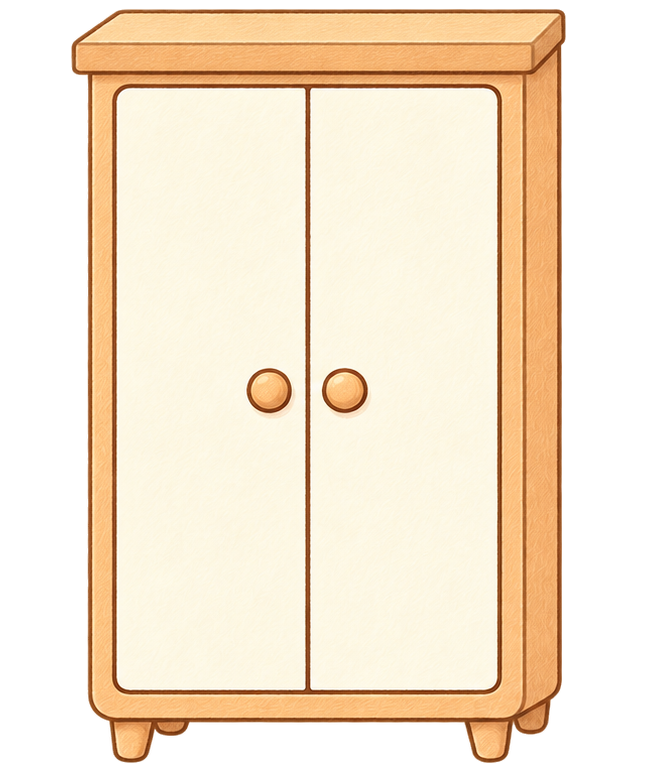
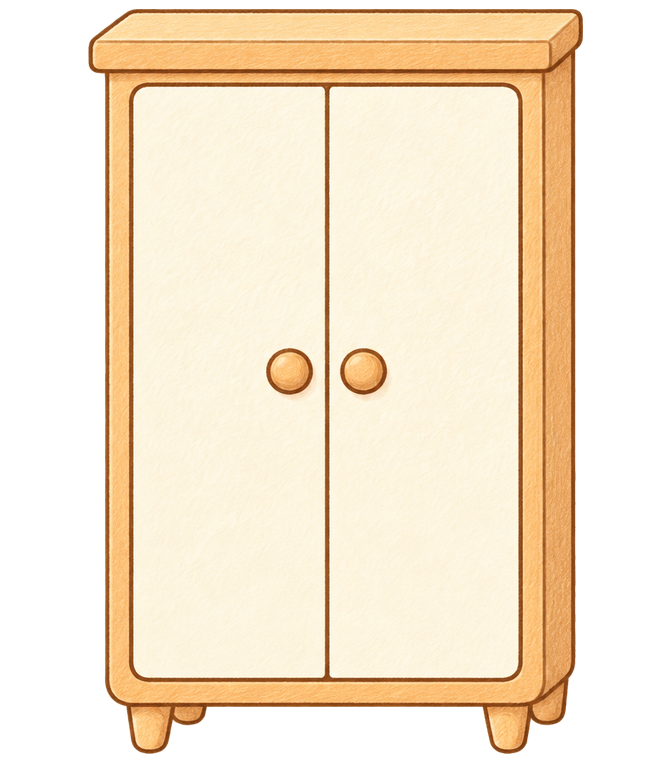
Level 2: vẽ lại cặp tủ đóng/mở cùng một khung, đặt lại hộp giày trên nóc
- Mô tả chi tiết tủ đóng/mở trong design-art-level2 (nóc dày, hông phải hẹp, hai cánh mở đối xứng)
- Tủ đóng do Codex vẽ; tủ mở ghép bằng script giữ nguyên khung tủ đóng, lấy cánh và ngăn
  quần áo gấp từ ảnh Codex
- Hộp giày đặt đúng trên mặt nóc ở cả hai trạng thái

Changed region(s): [[0.092, 0.0, 0.8896, 0.9974]]

diff --git a/game/src/level2.js b/game/src/level2.js
@@ -295,7 +295,7 @@ export class Level2 extends BaseLevel {
     this.wardrobe = this.img('l2_wardrobe_closed', ...P('l2_wardrobe_closed'), D.box);
     // G2-7: hộp giày nắp hé, hai tai mèo thò lên (hoá ra mũ len hồng tai mèo).
     const wb0 = this.wardrobe.getBounds();
-    this.shoebox = this.img('l2_shoebox_ears', ...(this.pos('l2_shoebox_ears') || [this.wardrobe.x + SIZE_K.l2_wardrobe_closed, this.wardrobe.y - 487 * SIZE_K.l2_wardrobe_closed]) /* Vòng 5d: mặt nóc cách neo đáy 487px ở cỡ design-art, nhân hệ số cỡ tủ trong game */, D.box + 1);
+    this.shoebox = this.img('l2_shoebox_ears', ...(this.pos('l2_shoebox_ears') || [this.wardrobe.x - 1, this.wardrobe.y - 553 * this.wardrobe.scaleY / (1.14 / 1.5)]) /* Vòng 5e: mặt nóc 543–562px trên neo đáy tủ ở cỡ trong game (tủ ×1,14) */, D.box + 1);
     this.attachTo(this.shoebox, this.wardrobe); // O2-18: hộp nằm trên nóc tủ nhún theo tủ
     this.pinkBeanie = this.img('l2_beanie_pink_cat', this.shoebox.x, this.shoebox.y - 40, D.box).setVisible(false);
     this.bed = this.img('l2_bed_blanket_flat', ...P('l2_bed_blanket_flat'), D.cushion);

diff --git a/art/design-art-level2.md b/art/design-art-level2.md
@@ -43,8 +43,8 @@ Hiển thị = cỡ trong game trên khung 1024x1536. TS = trong suốt.
 | `l2_bed_blanket_flipped` | level2 | theo nhóm | TS | đáy | `l2_bed_sheet` (bed) |
 | `l2_duster_peek` | level2 | cao 120 | TS | đỉnh (gốc lông) | `l2_wardrobe_sheet` (G2-9) |
 | `l2_duster` | level2 | rộng 260 | TS | đáy | `l2_wardrobe_sheet` (G2-9) |
-| `l2_wardrobe_closed` | level2 | rộng 330 | TS | đáy | `l2_wardrobe_sheet` (wardrobe) |
-| `l2_wardrobe_open` | level2 | theo nhóm | TS | đáy | `l2_wardrobe_sheet` (wardrobe) |
+| `l2_wardrobe_closed` | level2 | rộng 330 | TS | đáy | `l2_wardrobe_closed_sheet` (wardrobe) |
+| `l2_wardrobe_open` | level2 | theo nhóm | TS | đáy | `l2_wardrobe_open_sheet` (wardrobe), sửa từ ảnh tủ đóng |
 | `l2_shoebox_ears` | level2 | rộng 170 | TS | đáy | `l2_props_sheet` (shoebox, G2-7) |
 | `l2_shoebox_open` | level2 | theo nhóm | TS | đáy | `l2_props_sheet` (shoebox, G2-7) |
 | `l2_beanie_pink_cat` | level2 | rộng 120 | TS | đáy | `l2_props_sheet` (G2-7) |
@@ -229,12 +229,10 @@ Bố cục: hàng trên 6 chiếc tất bay đứng cạnh nhau, cùng tỉ lệ
 - `l2_bed_blanket_flat` 🎭: giường đơn gỗ caramel nằm ngang, **đầu giường tròn bên trái**, chân ngắn; chăn xanh da trời phủ kín, **giữa chăn MỘT gò tròn duy nhất, nổi rõ, cỡ Sữa cuộn tròn** (gối trắng nằm dưới); **gầm giường trong suốt** (không bóng, không mảng tối; thấy sàn nền; góc thảm lông là sprite riêng). 4 chân thẳng đứng cùng phối cảnh khung (O2-12, O2-13).
 - `l2_bed_blanket_flipped`: cùng giường, chăn lật gập về phía chân giường, lộ **một chiếc gối trắng tròn** (chính là cục phồng). Không mèo.
 
-### 5.6 Tờ `l2_wardrobe_sheet` — Cặp tủ quần áo và chổi lông (1536x1024, O2-22, G2-9)
+### 5.6 Tờ `l2_wardrobe_sheet` — Chổi lông (1536x1024, G2-9) và cặp tủ (tờ riêng)
 
 | Tờ | Ô | Key | Thư mục | Nhóm | Neo | Hiển thị | Nét |
 |---|---|---|---|---|---|---|---|
-| l2_wardrobe_sheet | 0,0,550,800 | l2_wardrobe_closed | level2 | wardrobe | đáy | rộng 330 | 4 |
-| l2_wardrobe_sheet | 550,0,670,800 | l2_wardrobe_open | level2 | wardrobe | đáy |  | 4 |
 | l2_wardrobe_sheet | 1220,0,316,800 | l2_duster_peek | level2 |  | đỉnh | cao 120 | 8 |
 | l2_wardrobe_sheet | 0,800,1536,224 | l2_duster | level2 |  | đáy | rộng 260 | 7 |
 
@@ -244,10 +242,25 @@ Bố cục: hàng trên 6 chiếc tất bay đứng cạnh nhau, cùng tỉ lệ
 
 Bố cục: hai tủ đứng cạnh nhau ở 3/4 trái (cùng cỡ, cùng đường đáy y≈760), túm lông thò ra ở cột phải, chổi lông nằm ngang ở dải dưới cùng. `l2_lamp_sheet` là ảnh tờ tủ cũ (chỉ lấy đèn), không vẽ lại.
 
-**Cặp tủ (O2-22) — hai ảnh là CÙNG MỘT tủ:** cùng khung, cùng cỡ, cùng góc hơi nghiêng ngang (mặt trước chữ nhật đứng + **một dải hông hẹp bên phải** + nóc là dải mỏng), cùng nóc, cùng 4 chân ngắn, cùng đường đáy.
-- `l2_wardrobe_closed`: khung gỗ mật ong nhạt, 2 cánh kem đóng sát nhau ở giữa, 2 núm gỗ tròn cạnh khe giữa; nóc dải mỏng gỗ; dải hông phải gỗ mật ong hơi sẫm hơn; 4 chân ngắn thẳng.
-- `l2_wardrobe_open`: **y hệt thân tủ đóng** (khung, nóc, dải hông, chân trùng khít vị trí), chỉ khác: **hai cánh mở ra hai bên** (mỗi cánh thấy mặt trong kem, núm ở mép ngoài, cánh mở nhìn hẹp lại vì xoay ra), lộ lòng tủ gỗ nhạt với **4 ngăn kệ ngang, quần áo gấp vuông vức** từng chồng màu pastel nhạt (vàng, hồng, bạc hà, xanh trời, kem). Không mèo.
-- Hộp giày trên nóc (`l2_props_sheet`) đã khớp góc nóc này: giữ nguyên góc nhìn tủ.
+**Cặp tủ (O2-22, vẽ lại lần 3) — hai tờ riêng, tủ mở sửa từ chính ảnh tủ đóng:**
+
+| Tờ | Ô | Key | Thư mục | Nhóm | Neo | Hiển thị | Nét |
+|---|---|---|---|---|---|---|---|
+| l2_wardrobe_closed_sheet | 0,0,1024,1536 | l2_wardrobe_closed | level2 | wardrobe | đáy | rộng 330 | 3 |
+| l2_wardrobe_open_sheet | 0,0,1024,1536 | l2_wardrobe_open | level2 | wardrobe | đáy |  | 3 |
+
+(`rộng 330` đo trên tủ đóng; tủ mở để trống cột Hiển thị nên dùng cùng tỉ lệ, khung trùng nhau.)
+
+Mô tả chung (giống hệt ở hai trạng thái):
+- **Góc nhìn chung** (style.md 2b): chính diện, nhìn xuống ~15°, cạnh ngang nằm ngang, cạnh đứng thẳng đứng. Tủ đặt sát tường sau, hơi lệch phải khung nên thấy **một dải hông bên phải hẹp** (rộng ~1/10 bề ngang mặt trước), cạnh trên/dưới của dải hông hơi chéo lên theo phối cảnh nhẹ, cạnh đứng thẳng.
+- **Tỉ lệ:** mặt trước rộng 1, cao ~1,75 (tính cả nóc và chân), sâu ~0,35 (chỉ thấy qua dải hông và mặt nóc).
+- **Nóc:** tấm gỗ mật ong dày (~1/18 chiều cao), nhô ra ~4% mỗi bên và phía trước; thấy **mặt trên nóc** là một dải phẳng sáng (cao ~1/8 bề ngang, đủ đặt hộp giày) và cạnh trước dày.
+- **Thân:** khung gỗ mật ong nhạt bo góc nhẹ, viền nâu ấm mảnh; **chân:** 4 chân gỗ ngắn tròn thẳng đứng (2 chân sau lấp một phần sau chân trước), cùng đường đáy.
+- Màu, nét như `owner_l1_style_ref.png`: nhạt, mịn, viền nâu mảnh.
+- Trong canvas 1024x1536: tủ đóng (kể cả hông) rộng ~430px, căn giữa ngang, đáy chân ở y≈1350, để hai bên còn chỗ cho cánh mở.
+
+- `l2_wardrobe_closed`: hai cánh kem đóng sát nhau ở giữa mặt trước, khe giữa thẳng đứng, 2 núm gỗ tròn hai bên khe, mỗi cánh có viền khung mảnh.
+- `l2_wardrobe_open`: **y hệt ảnh tủ đóng từng pixel** ở khung, nóc, dải hông phải, chân, đường đáy. Chỉ khác: **cả hai cánh mở ra hai bên đối xứng (~100°)**: mỗi cánh thành một **dải hẹp hình thang đứng** gắn đúng ở mép bản lề (cánh trái ở mép trái mặt trước, cánh phải ở mép phải), thấy **mặt trong cánh** màu kem nhạt hơn và núm ở mép ngoài; cạnh trên/dưới cánh hơi chéo theo phối cảnh, cạnh đứng thẳng. Lòng tủ: vách gỗ nhạt, **4 ngăn kệ ngang** nhìn chính diện, quần áo gấp vuông vức ngay ngắn từng chồng (vàng, hồng, bạc hà, xanh trời, kem), không bóng.
 
 **Chổi lông (G2-9):** lông chổi **giống đuôi Sữa**: trắng kem ấm, lông bông xù mềm, nét chì như đuôi trong `sua_ref`.
 - `l2_duster_peek` 🎭: chỉ **túm lông trắng dài, cong như đuôi mèo** thò ra, đầu túm tròn bông; **gốc cắt phẳng ở mép trên** (neo đỉnh, khuất dưới mép giường); không thấy cán.

diff --git a/art/review/level2-thread.md b/art/review/level2-thread.md
@@ -339,3 +339,25 @@ Mỗi lượt Codex đính kèm ảnh mẫu level 1 (`art/ref/owner_l1_style_ref
 - Đã ghép thử hộp lên nóc mới: góc nghiêng và dải hông phải của hộp khớp nóc, không cần vẽ lại hộp.
 
 ---
+
+## Vòng 5e – Art 2D (cặp tủ đồng bộ)
+
+- **design-art mục 5.6:** mô tả chi tiết cặp tủ:
+  - tỉ lệ rộng 1 : cao 1,75 : sâu 0,35; nóc gỗ dày nhô ra, mặt trên là dải phẳng; dải hông phải hẹp ~1/10 bề ngang, giống nhau ở hai trạng thái; 4 chân; góc nhìn chung;
+  - tủ mở có 2 cánh mở đối xứng thành dải hẹp hình thang ở hai mép bản lề, 4 ngăn quần áo gấp nhìn chính diện.
+  - Hai tờ riêng `l2_wardrobe_closed_sheet`, `l2_wardrobe_open_sheet` (1024x1536). Tủ mở để trống cột Hiển thị để dùng chung tỉ lệ với tủ đóng.
+- **Lượt 1 (tủ đóng):** đạt. Log có "Nhắc lại quy tắc" và "Tự kiểm".
+- **Lượt 2 (tủ mở, Codex sửa từ ảnh tủ đóng):** hỏng rõ. Nóc, thân, chân đổi cỡ và vị trí; Codex tự kiểm "khung tủ mở trùng tủ đóng — không đạt".
+  - Không dùng lượt thứ 3 vì sửa ảnh bằng image_gen không giữ được khung (đã thấy từ thử nghiệm A3).
+  - Tôi **ghép bằng script từ ảnh tủ đóng**: giữ nguyên từng pixel khung, nóc, hông, chân; thay lòng cửa bằng phần ngăn quần áo gấp cắt từ ảnh Codex; hai cánh lấy từ ảnh Codex, nắn thành dải hẹp hình thang ở hai mép bản lề.
+  - Khung hai tủ trùng khít. Bản Codex gốc ở `art/out/_refs/l2_wardrobe_open_codex_raw.png`.
+- Ảnh so sánh đóng/mở cạnh nhau: scratchpad `l2_wardrobe_pair.jpg`.
+- Cắt xong, `anchors.json` cập nhật: hai tủ cùng khung 653x761, neo đáy (346, 754), `res` 1,5.
+- **Mặt trên nóc tủ** (ảnh xuất `l2_wardrobe_closed.png`): y 14–40 px, x 107–582, tâm lệch neo −1,5 px.
+  - Cỡ hiển thị gốc: 476–493 px phía trên neo đáy, giữa là 485.
+  - **Theo cỡ trong game (tủ ×1,14): 543–562 px phía trên neo đáy, giữa là 553.** Đặt neo đáy hộp giày ở (X_tủ − 1, Y_tủ − 553).
+  - Ví dụ: tủ ở (862, 990) thì hộp ở (861, 437).
+  - Đã ghép thử: hộp nằm trên nóc, góc nghiêng khớp, không cần vẽ lại hộp.
+- Lệch nhỏ đã chấp nhận: núm ở mép ngoài hai cánh mở bị cắt mất nửa.
+
+---
